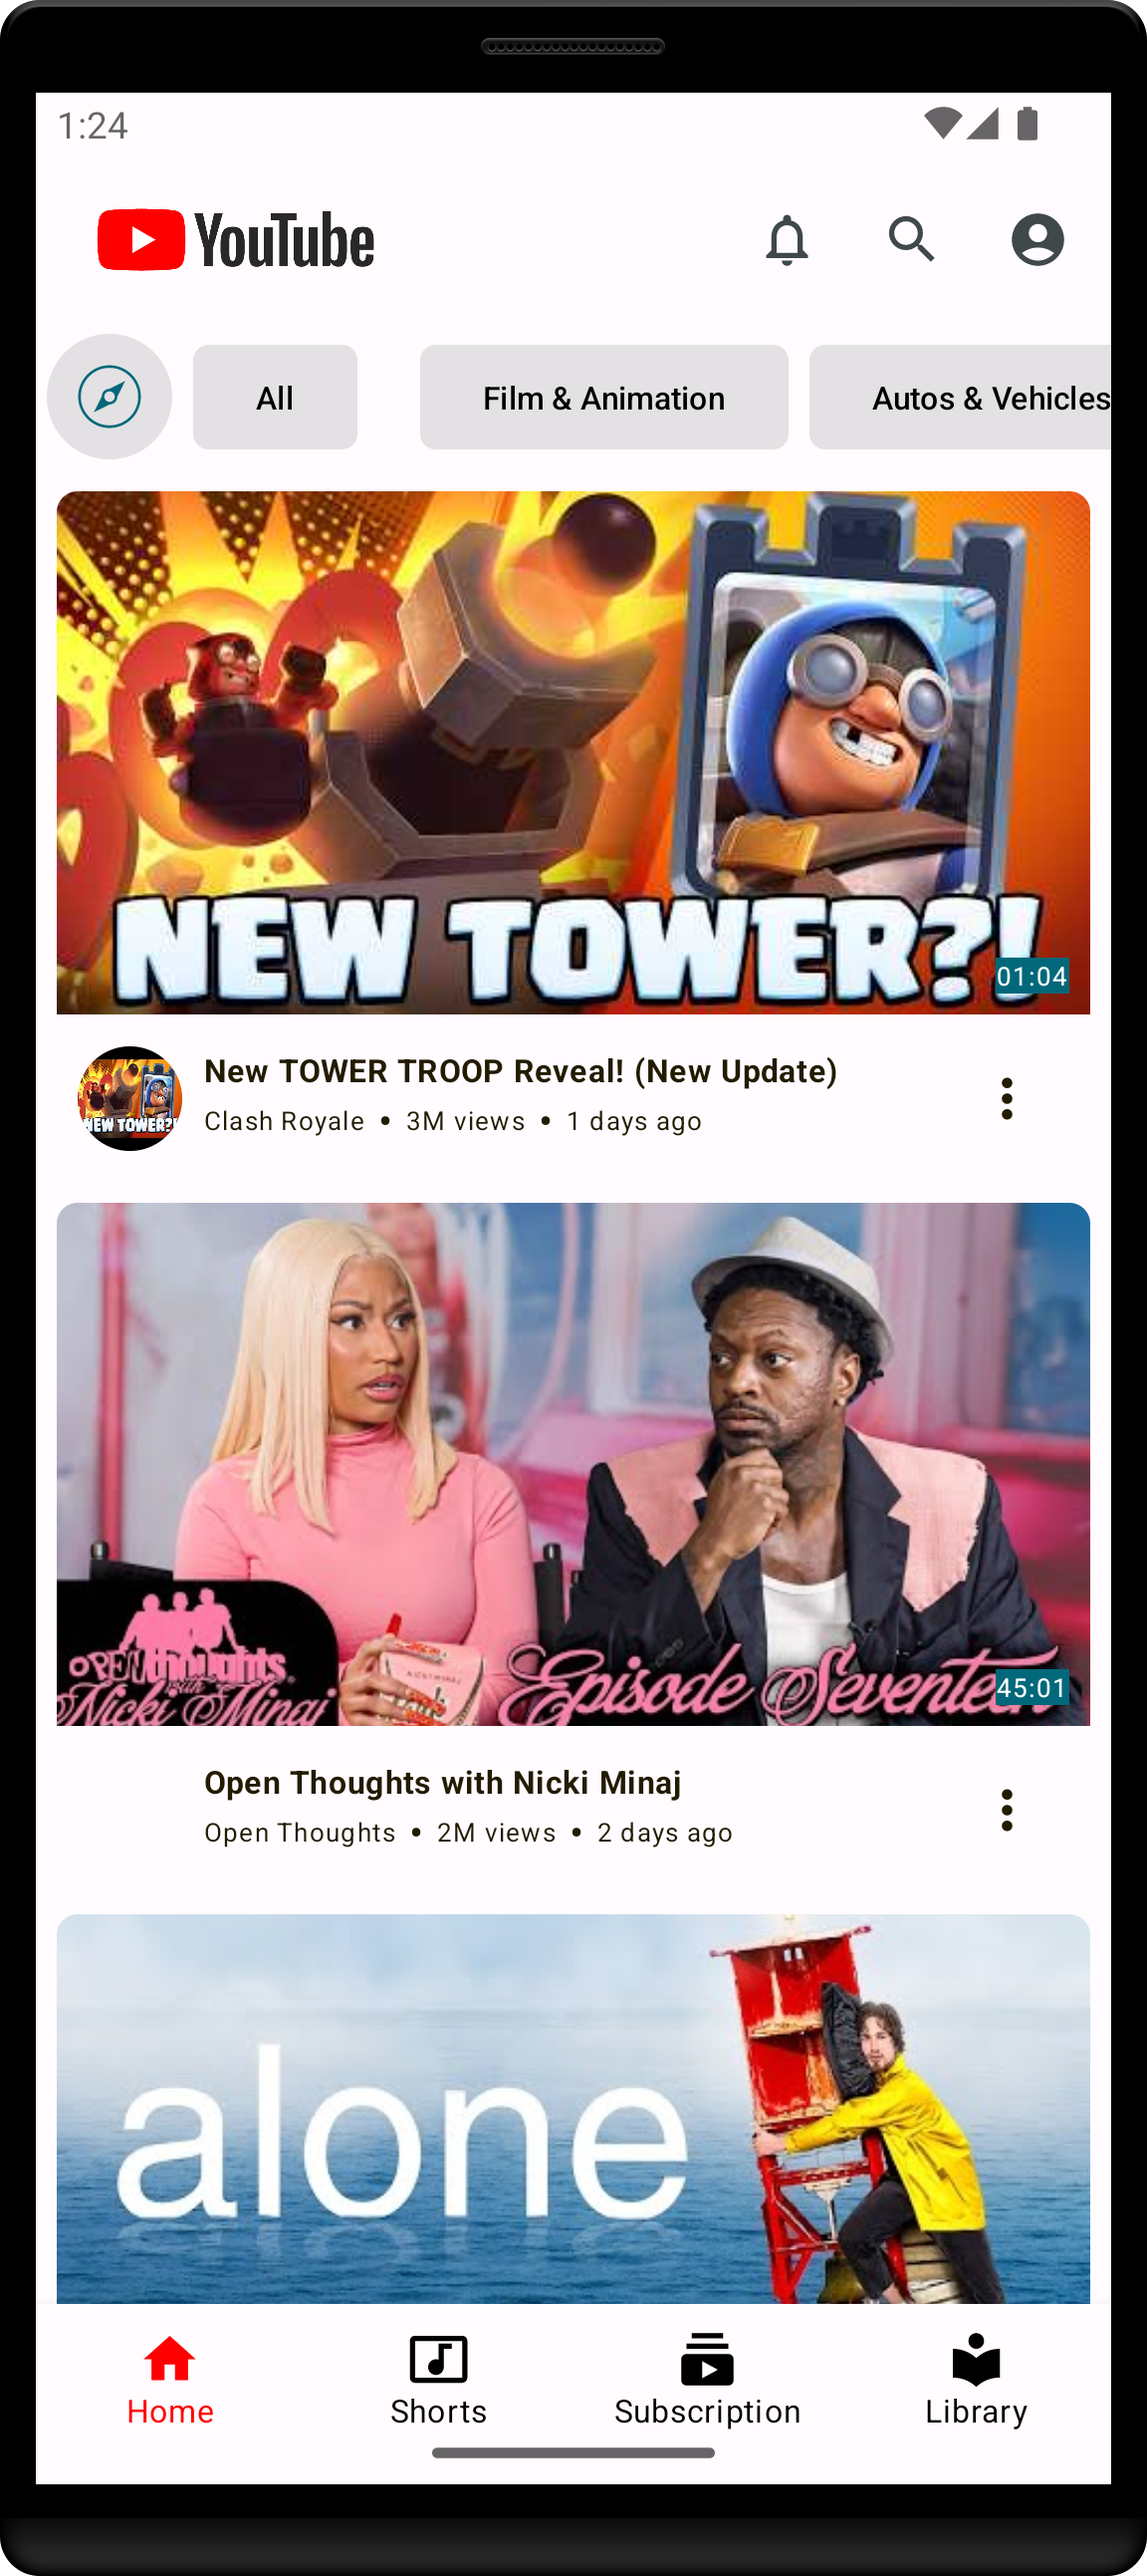
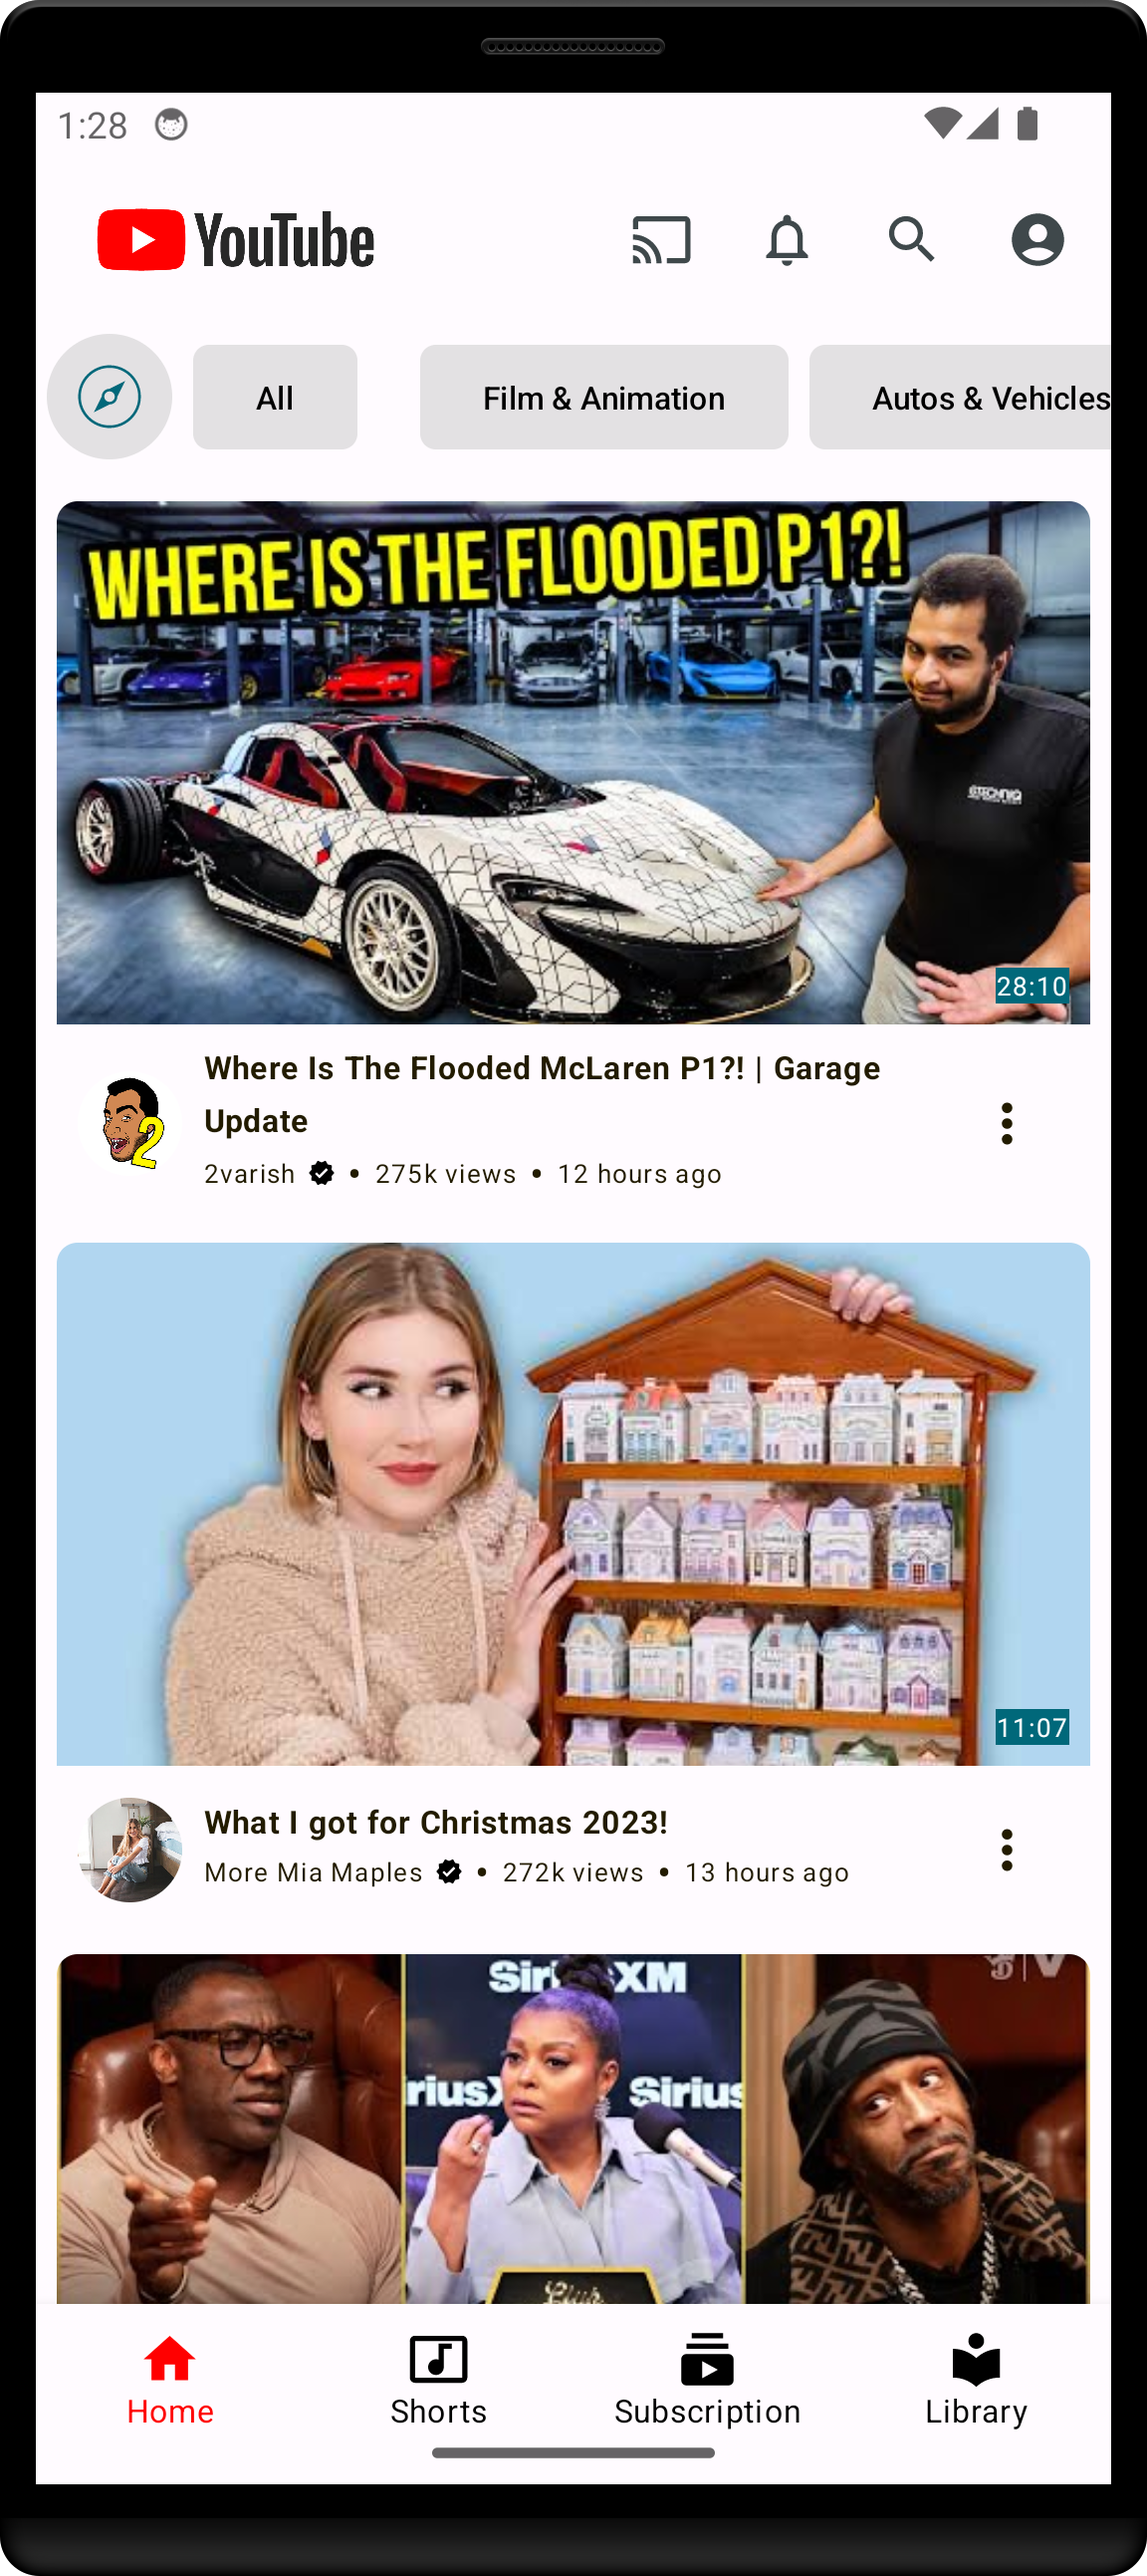
-Verified Badge Implementation on Home (#27)

diff --git a/composeApp/src/commonMain/kotlin/org/company/app/ui/components/VideosLIst.kt b/composeApp/src/commonMain/kotlin/org/company/app/ui/components/VideosLIst.kt
@@ -592,7 +592,7 @@ fun VideoItemCard(video: Item) {
                     ) {
                         Row(
                             verticalAlignment = Alignment.CenterVertically,
-                            horizontalArrangement = Arrangement.Start
+                            horizontalArrangement = Arrangement.Center
                         ) {
                             Text(text = video.snippet?.channelTitle.toString(), fontSize = 10.sp)
                             val isVerified = channelData?.items?.get(0)?.status?.isLinked == true
@@ -601,7 +601,7 @@ fun VideoItemCard(video: Item) {
                                     imageVector = Icons.Default.Verified,
                                     contentDescription = null,
                                     tint = if (isDark) Color.White else Color.Black,
-                                    modifier = Modifier.size(15.dp).padding(start = 4.dp)
+                                    modifier = Modifier.size(15.dp).padding(start = 4.dp, top = 4.dp)
                                 )
                             }
                         }
